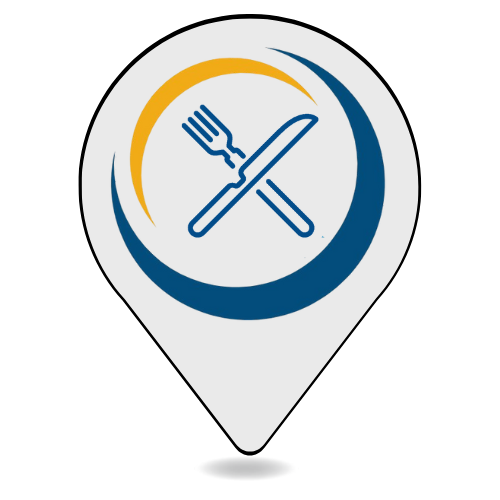
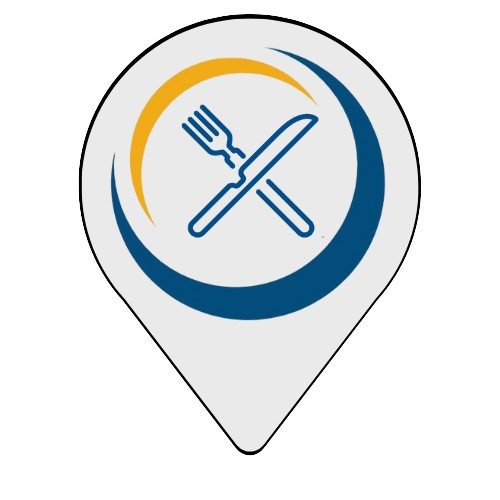
enllevement du fond et agrandissement des ping sur la carte

diff --git a/html/js/sortAndFilter.js b/html/js/sortAndFilter.js
@@ -632,7 +632,7 @@ function addPing(array) {
       case 'Activité':
         imageCategorie = L.icon({
             iconUrl: chemin + "pointeur-activite.png",
-            iconSize: [32, 32],
+            iconSize: [60, 60],
             iconAnchor: [16, 32],
             popupAnchor: [0, -32]
         });
@@ -641,7 +641,7 @@ function addPing(array) {
       case 'Parc Attraction':
         imageCategorie = L.icon({
             iconUrl: chemin + "pointeur-parc.png",
-            iconSize: [32, 32],
+            iconSize: [60, 60],
             iconAnchor: [16, 32],
             popupAnchor: [0, -32]
         });
@@ -650,7 +650,7 @@ function addPing(array) {
       case 'Restaurant':
         imageCategorie = L.icon({
             iconUrl: chemin + "pointeur-restaurant.png",
-            iconSize: [32, 32],
+            iconSize: [60, 60],
             iconAnchor: [16, 32],
             popupAnchor: [0, -32]
         });
@@ -659,7 +659,7 @@ function addPing(array) {
       case 'Spectacle':
         imageCategorie = L.icon({
             iconUrl: chemin + "pointeur-spectacle.png",
-            iconSize: [32, 32],
+            iconSize: [60, 60],
             iconAnchor: [16, 32],
             popupAnchor: [0, -32]
         });
@@ -668,7 +668,7 @@ function addPing(array) {
       case 'Visite':
         imageCategorie = L.icon({
             iconUrl: chemin + "pointeur-visite.png",
-            iconSize: [32, 32],
+            iconSize: [60, 60],
             iconAnchor: [16, 32],
             popupAnchor: [0, -32]
         });
@@ -677,7 +677,7 @@ function addPing(array) {
       default:
         imageCategorie = L.icon({
             iconUrl: chemin + "pointeur-activite.png",
-            iconSize: [32, 32],
+            iconSize: [60, 60],
             iconAnchor: [16, 32],
             popupAnchor: [0, -32]
         });
